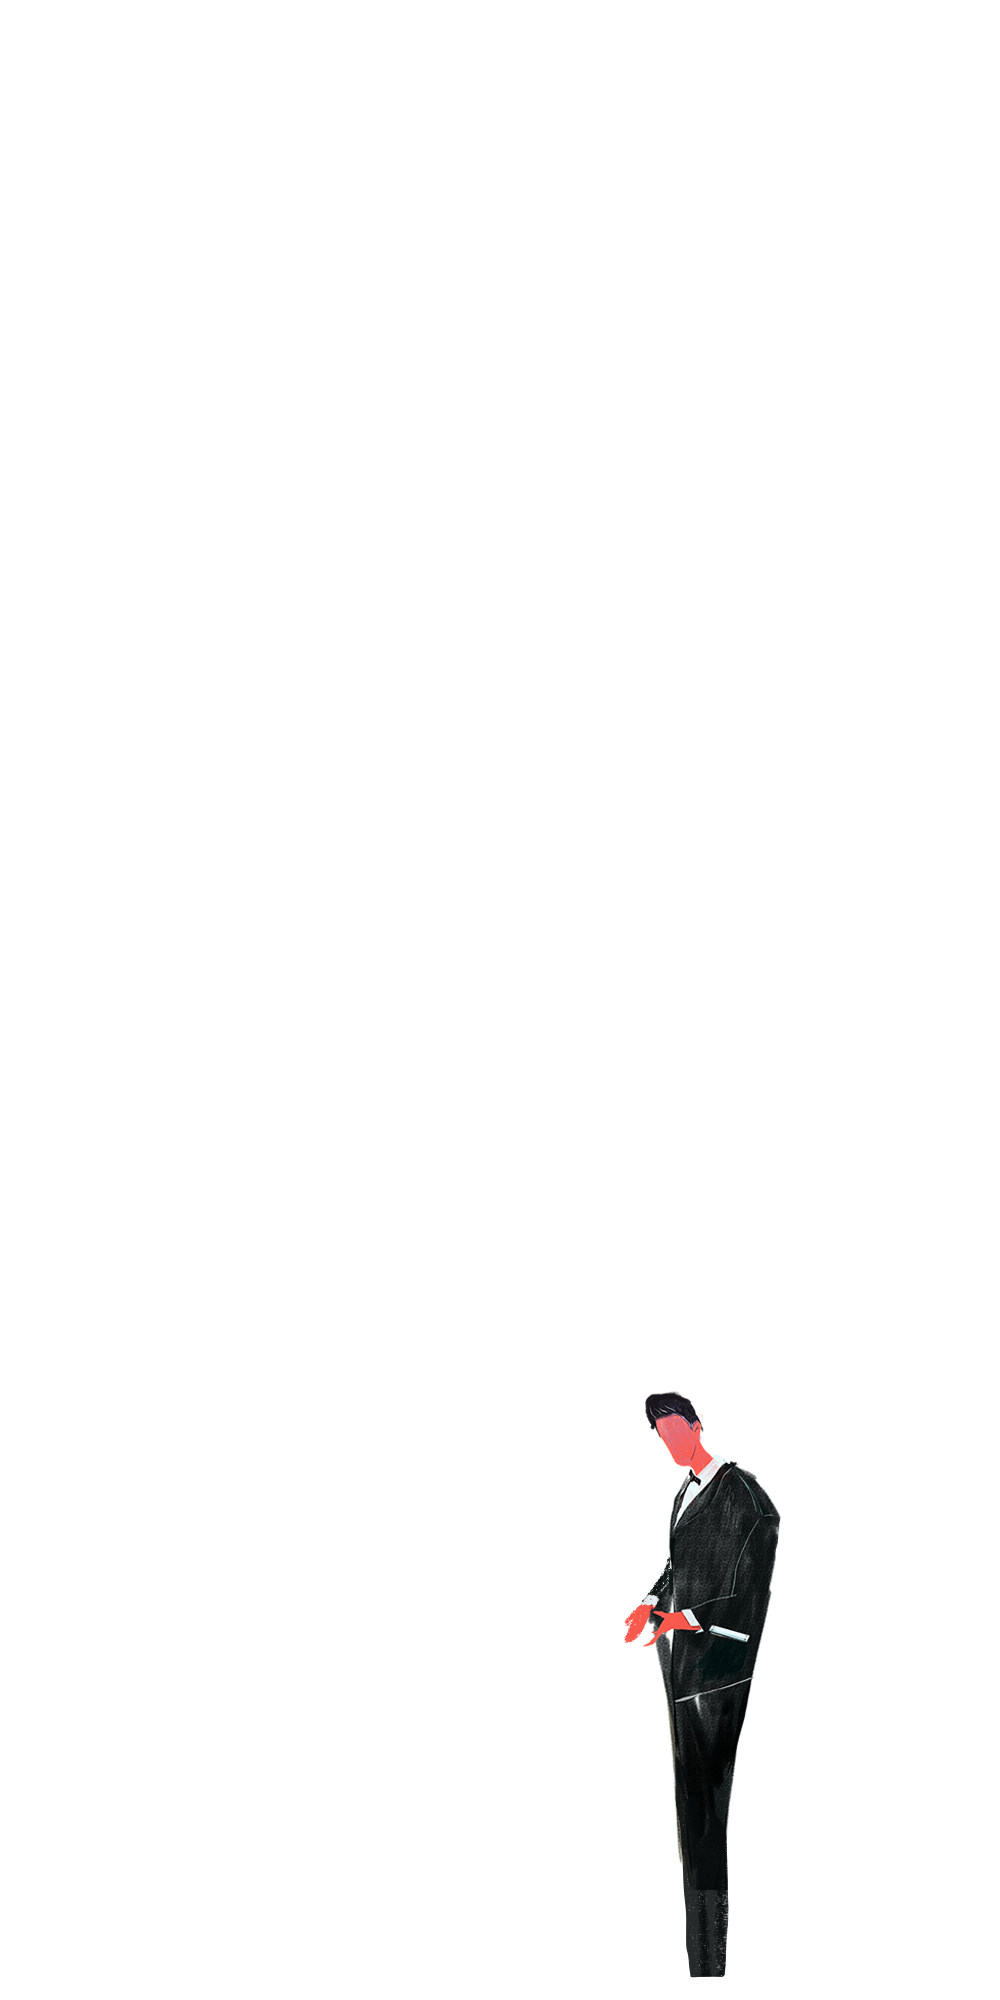
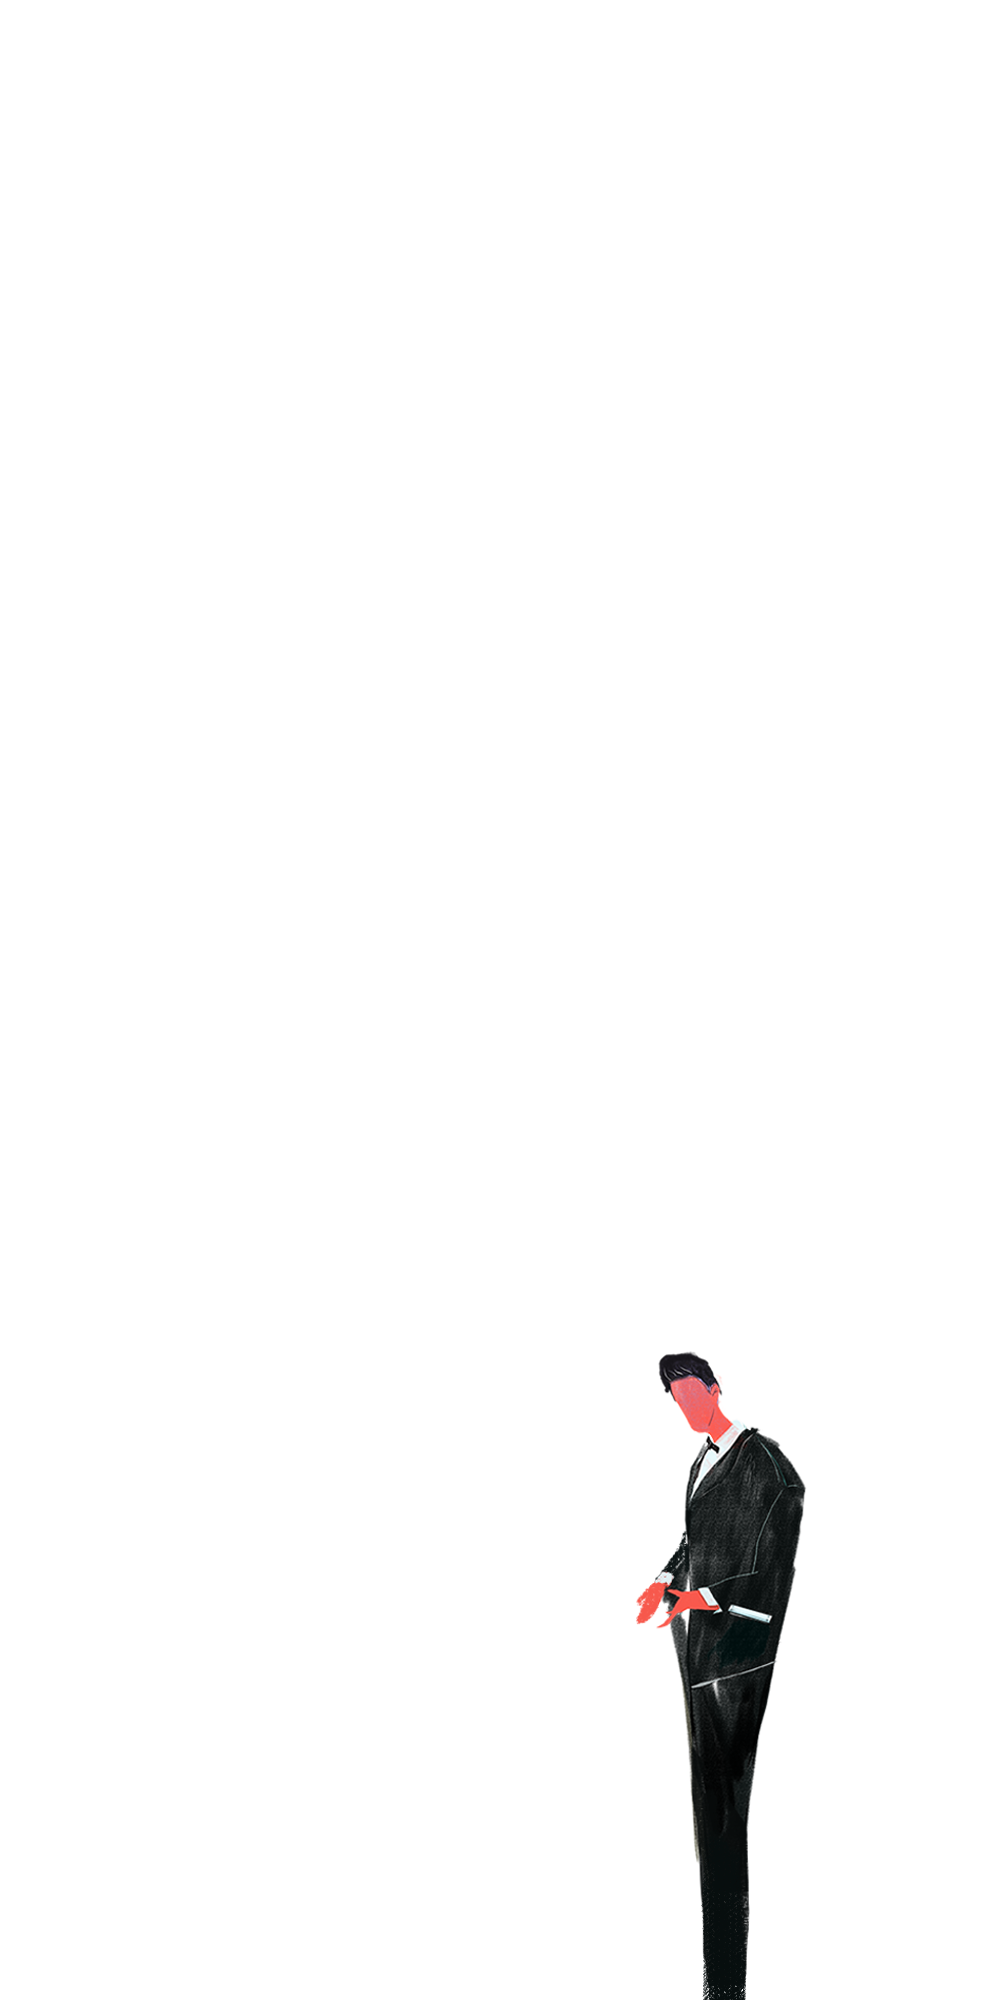
sherry publish

Changed region(s): [[0.62, 0.651, 0.806, 1.0]]

diff --git a/parallax/03/main.js b/parallax/03/main.js
@@ -30,6 +30,7 @@ var pregnantScreen = new Image();
 var pregnantWoman = new Image();
 var shadow = new Image();
 var weddingBride = new Image();
+var weddingShadow = new Image();
 var weddingBridegroom = new Image();
 var weddingMountain = new Image();
 var weddingSea = new Image();
@@ -63,7 +64,7 @@ var layer_list = [
     'z_index': -1,
     'position': { x: 0, y: 0 },
     'blend': 'mutiply',
-    'opacity': 0.3
+    'opacity': 0.5
   },
   {
     'image': holeShadow,
@@ -71,7 +72,7 @@ var layer_list = [
     'z_index': 0,
     'position': { x: 0, y: 0 },
     'blend': 'mutiply',
-    'opacity': 0.8
+    'opacity': 1
   },
   {
     'image': pregnantDoctor,
@@ -98,14 +99,6 @@ var layer_list = [
     'opacity': 1
   },
   {
-    'image': cosmeticTable,
-    'src': './images/cosmeticTable.png',
-    'z_index': -1.5,
-    'position': { x: 0, y: 0 },
-    'blend': null,
-    'opacity': 1
-  },
-  {
     'image': weddingMountain,
     'src': './images/weddingMountain.png',
     'z_index': -3.4,
@@ -114,9 +107,49 @@ var layer_list = [
     'opacity': 1
   },
   {
+    'image': cosmeticTable,
+    'src': './images/cosmeticTable.png',
+    'z_index': -1,
+    'position': { x: 0, y: 0 },
+    'blend': null,
+    'opacity': 1
+  },
+  {
     'image': bgHead,
     'src': './images/bgHead.png',
     'z_index': 0,
+    'position': { x: 0, y: 0 },
+    'blend': null,
+    'opacity': 1
+  },
+  {
+    'image': familyBarrier,
+    'src': './images/familyBarrier.png',
+    'z_index': 0.7,
+    'position': { x: 0, y: 0 },
+    'blend': null,
+    'opacity': 1
+  },
+  {
+    'image': motorMom,
+    'src': './images/motorMom.png',
+    'z_index': 0.7,
+    'position': { x: 0, y: 0 },
+    'blend': null,
+    'opacity': 1
+  },
+    {
+    'image': familyMom,
+    'src': './images/familyMom.png',
+    'z_index': 1.4,
+    'position': { x: 0, y: 0 },
+    'blend': null,
+    'opacity': 1
+  },
+  {
+    'image': familyDad,
+    'src': './images/familyDad.png',
+    'z_index': 1.2,
     'position': { x: 0, y: 0 },
     'blend': null,
     'opacity': 1
@@ -138,6 +171,14 @@ var layer_list = [
     'opacity': 1
   },
   {
+    'image': weddingShadow,
+    'src': './images/weddingShadow.png',
+    'z_index': -1,
+    'position': { x: 0, y: 0 },
+    'blend': 'mutiply',
+    'opacity': 0.35
+  },
+  {
     'image': weddingBridegroom,
     'src': './images/weddingBridegroom.png',
     'z_index': 1.8,
@@ -157,38 +198,6 @@ var layer_list = [
     'image': mask,
     'src': './images/mask.png',
     'z_index': 0,
-    'position': { x: 0, y: 0 },
-    'blend': null,
-    'opacity': 1
-  },
-  {
-    'image': familyBarrier,
-    'src': './images/familyBarrier.png',
-    'z_index': 0.3,
-    'position': { x: 0, y: 0 },
-    'blend': null,
-    'opacity': 1
-  },
-  {
-    'image': familyMom,
-    'src': './images/familyMom.png',
-    'z_index': 0.7,
-    'position': { x: 0, y: 0 },
-    'blend': null,
-    'opacity': 1
-  },
-  {
-    'image': motorMom,
-    'src': './images/motorMom.png',
-    'z_index': -0.1,
-    'position': { x: 0, y: 0 },
-    'blend': null,
-    'opacity': 1
-  },
-  {
-    'image': familyDad,
-    'src': './images/familyDad.png',
-    'z_index': 0.7,
     'position': { x: 0, y: 0 },
     'blend': null,
     'opacity': 1
